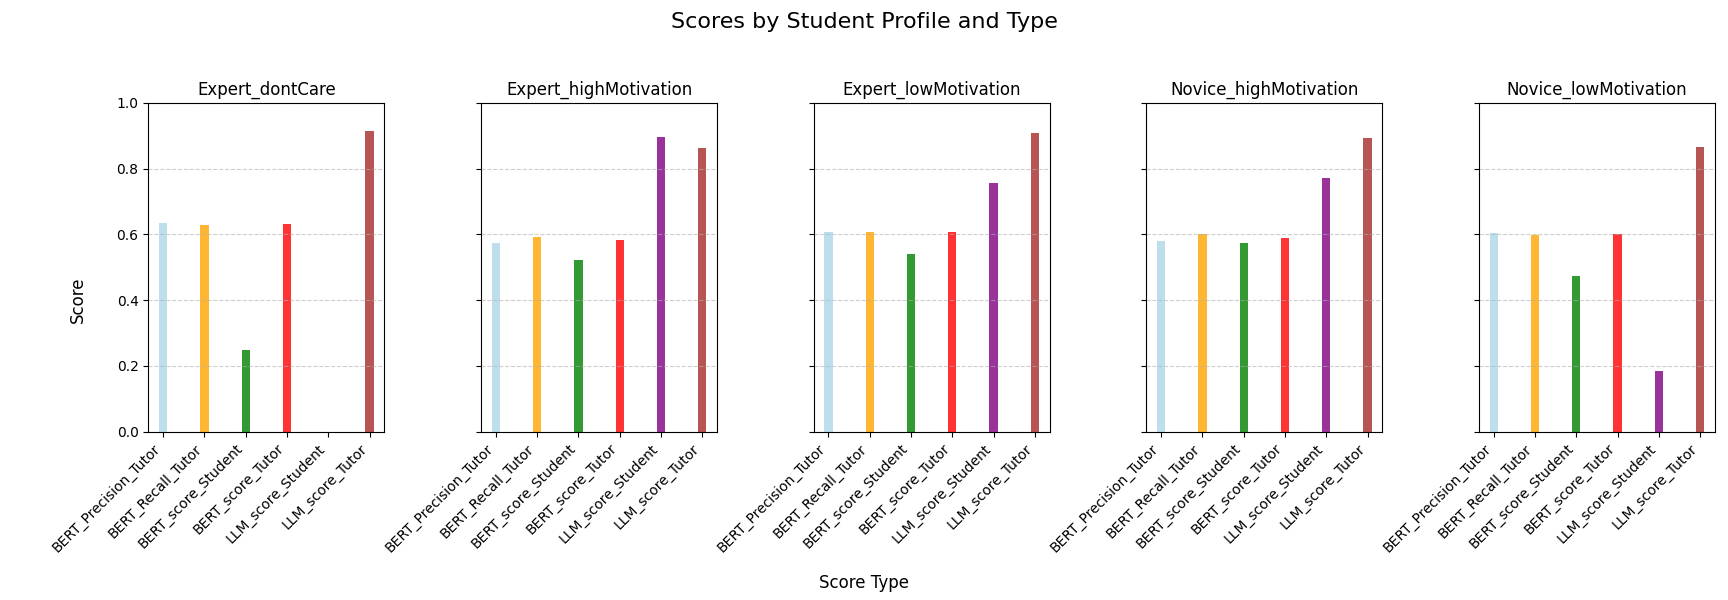
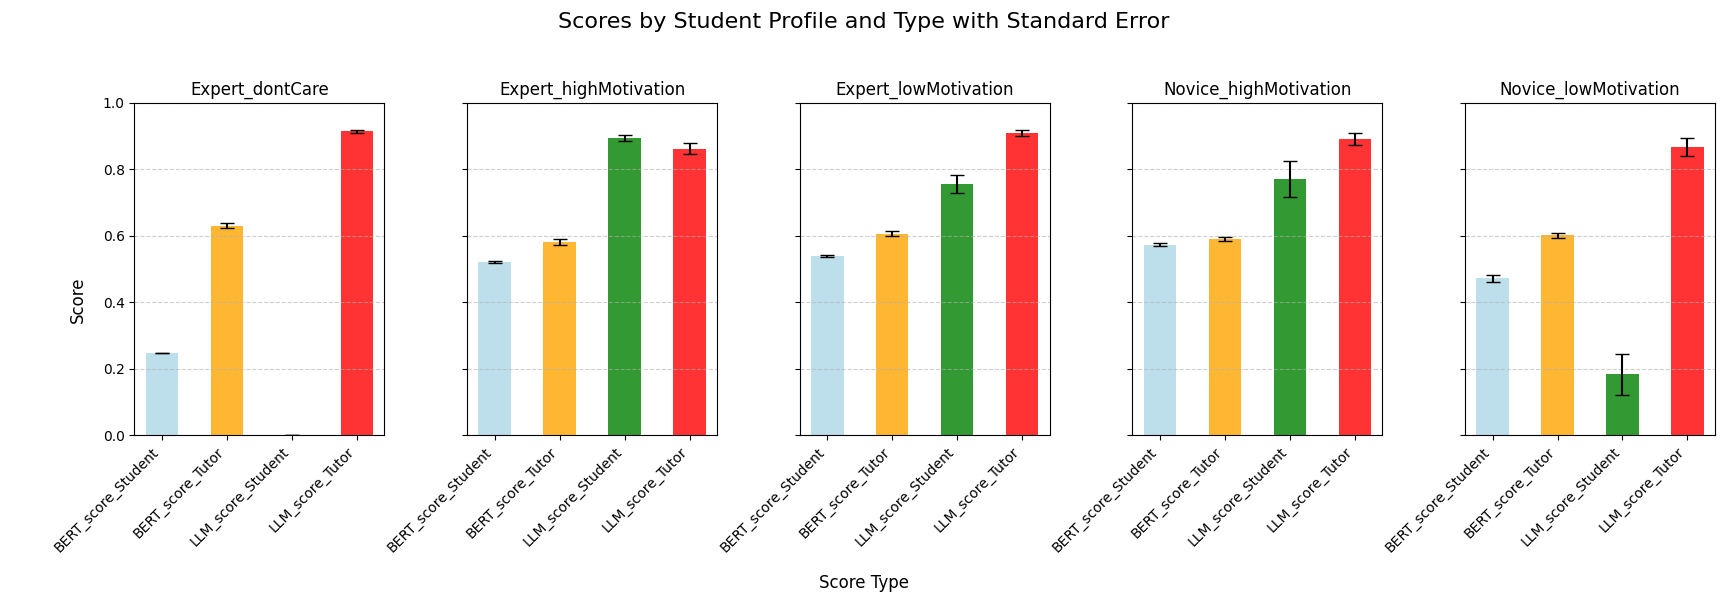
More Visualization

diff --git a/analysis/data_visualization.py b/analysis/data_visualization.py
@@ -4,27 +4,17 @@ import seaborn as sns
 import numpy as np
 
 def plot_llm_scores_bar(df, drop_columns=["tutor_summary", "student_summary", "conversation_counter", "tutor_response_avg", "student_response_avg",
-                      "LLM_Precision_Tutor", "LLM_Recall_Tutor"]):
-    """
-    Create subplots for scores by student profile and score type.
-
-    Parameters:
-        df (pd.DataFrame): The input DataFrame containing scores and student profiles.
-        drop_columns (list): List of column names to drop from the DataFrame before processing.
-    """
-    # Step 1: Drop unnecessary columns
+                      "LLM_Precision_Tutor", "LLM_Recall_Tutor", "BERT_Precision_Tutor", "BERT_Recall_Tutor"]):
     df = df.drop(columns=drop_columns)
-
-    # Step 2: Reshape and aggregate data
     df = df.melt(id_vars="student_profile", var_name="Score_Type", value_name="Score")
-    aggregated_df = df.groupby(["student_profile", "Score_Type"], as_index=False)["Score"].mean()
+    aggregated_df = df.groupby(["student_profile", "Score_Type"], as_index=False).agg(
+        mean_score=("Score", "mean"),
+        sem_score=("Score", lambda x: x.std() / np.sqrt(len(x)))  # Calculate standard error
+    )
 
-    # Unique values for subplots
     student_profiles = aggregated_df["student_profile"].unique()
     score_types = aggregated_df["Score_Type"].unique()
-    width = 0.2  # Width of the bars
-
-    # Step 3: Create subplots
+    width = 0.5  # Width of the bars
     fig, axes = plt.subplots(nrows=1, ncols=len(student_profiles), figsize=(20, 6), sharey=True)
 
     # Ensure axes is always iterable
@@ -37,13 +27,16 @@ def plot_llm_scores_bar(df, drop_columns=["tutor_summary", "student_summary", "c
 
         # X positions for bars
         x = np.arange(len(score_types))
-        scores = subset["Score"].values
+        mean_scores = subset["mean_score"].values
+        sem_scores = subset["sem_score"].values
 
-        # Plot grouped bars
+        # Plot grouped bars with error bars
         ax.bar(
             x,
-            scores,
+            mean_scores,
             width,
+            yerr=sem_scores,  # Add standard error as error bars
+            capsize=5,  # Error bar cap size
             color=["lightblue", "orange", "green", "red", "purple", "brown"][:len(score_types)],
             alpha=0.8
         )
@@ -56,7 +49,7 @@ def plot_llm_scores_bar(df, drop_columns=["tutor_summary", "student_summary", "c
         ax.grid(axis="y", linestyle="--", alpha=0.6)
 
     # Add global labels and legend
-    fig.suptitle("Scores by Student Profile and Type", fontsize=16)
+    fig.suptitle("Scores by Student Profile and Type with Standard Error", fontsize=16)
     fig.text(0.5, 0.02, "Score Type", ha="center", fontsize=12)
     fig.text(0.04, 0.5, "Score", va="center", rotation="vertical", fontsize=12)
 
@@ -65,15 +58,6 @@ def plot_llm_scores_bar(df, drop_columns=["tutor_summary", "student_summary", "c
     plt.show()
 
 def plot_llm_scores(df, score_column="LLM_score_Student", profile_column="student_profile"):
-    """
-    Plot LLM scores colored by student profile with customization.
-
-    Parameters:
-        df (pd.DataFrame): The DataFrame containing the data.
-        score_column (str): The column name for the scores (y-axis).
-        profile_column (str): The column name for the student profiles (hue).
-    """
-    # Set a color-blind friendly palette
     sns.set_palette("colorblind")
     
     # Create the plot
@@ -102,6 +86,37 @@ def plot_llm_scores(df, score_column="LLM_score_Student", profile_column="studen
     plt.tight_layout()
     plt.show()
 
+def plot_heatmap(df):
+    columns_to_keep = [
+    "conversation_counter", "tutor_response_avg", "student_response_avg",
+    "LLM_score_Tutor",
+    "BERT_score_Tutor",
+    "BERT_score_Student", "LLM_score_Student"
+    ]
+
+    # Filter the DataFrame to keep only the specified columns
+    df_filtered = df[columns_to_keep]
+
+    # Calculate the Pearson correlation
+    correlation_matrix_filtered = df_filtered.corr(method="pearson")
+
+    plt.figure(figsize=(12, 10))
+    sns.heatmap(
+        correlation_matrix_filtered, 
+        annot=True, 
+        cmap="coolwarm", 
+        fmt=".2f", 
+        cbar=True,
+        annot_kws={"size": 10}  # Adjust font size of annotations
+    )
+
+    # Adjust titles and layout to fit better
+    plt.title("Pearson Correlation Heatmap", fontsize=16)
+    plt.xticks(rotation=45, ha="right", fontsize=10)  # Rotate x-axis labels
+    plt.yticks(fontsize=10)  # Adjust y-axis label font size
+    plt.tight_layout()  # Automatically adjust layout to avoid text cutoff
+    plt.show()
+
 
 df = pd.read_csv("../data/cleaned_df.csv")
 
@@ -110,4 +125,4 @@ df = pd.read_csv("../data/cleaned_df.csv")
 #plot_llm_scores(df, score_column="BERT_score_Tutor", profile_column="student_profile")
 #plot_llm_scores(df, score_column="BERT_score_Student", profile_column="student_profile")
 #plot_llm_scores_bar(df)
-
+#plot_heatmap(df)
